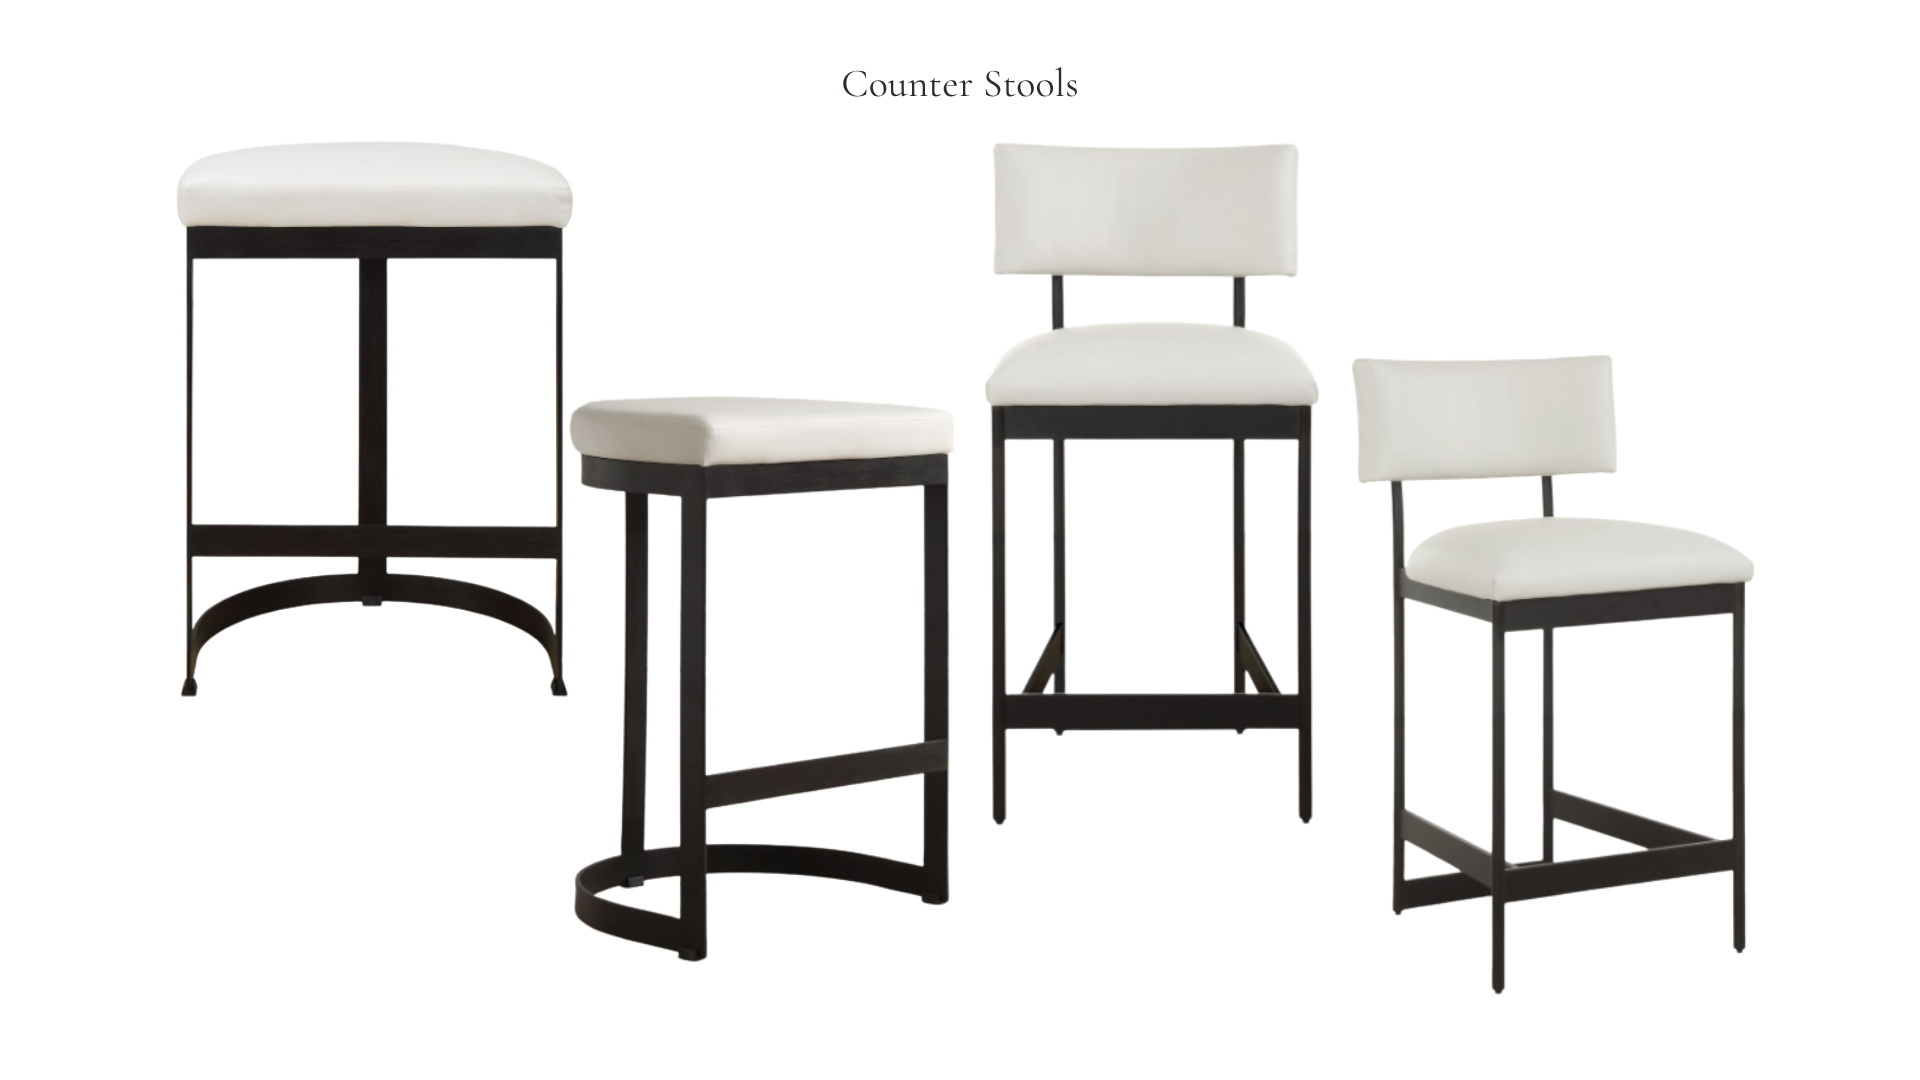
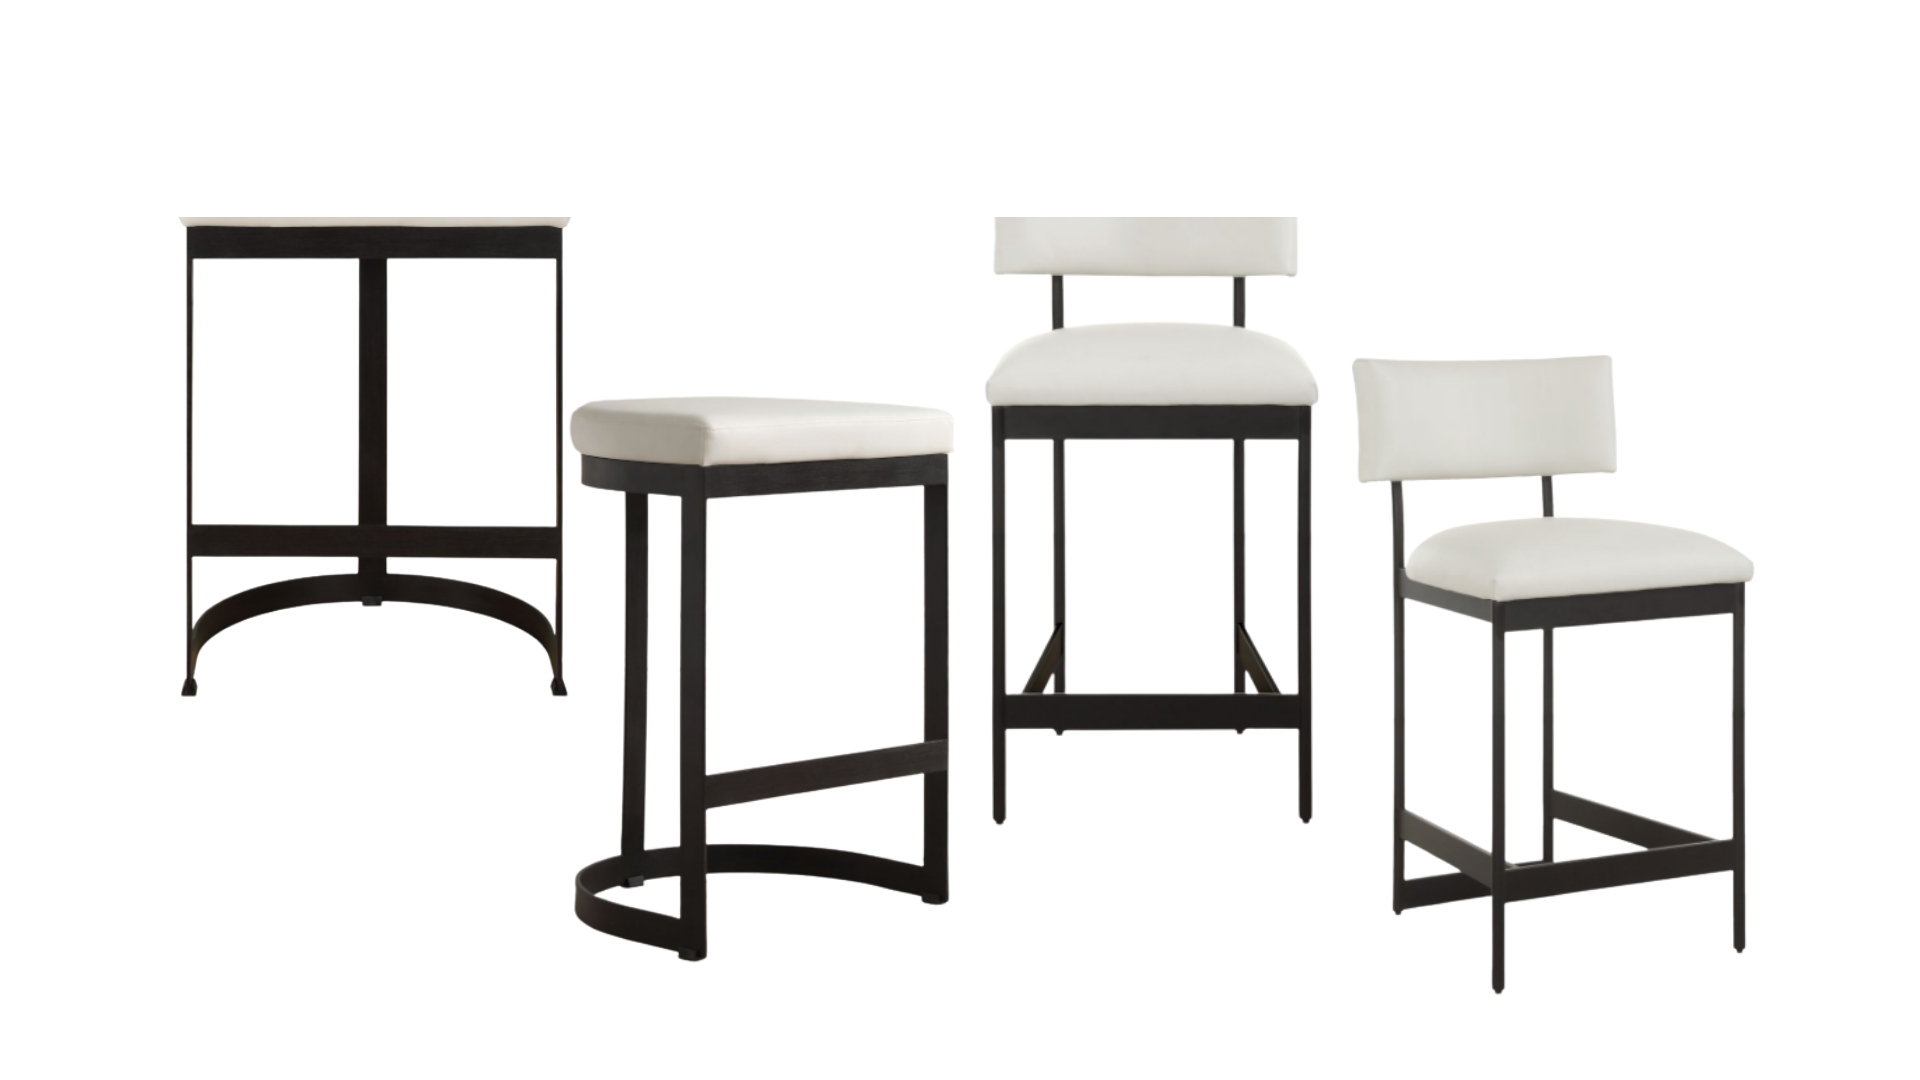
Remove text labels from Edinburgh case study images
Converted labeled webps to clean PNGs, updated HTML references

Changed region(s): [[0.0938, 0.1222, 0.3125, 0.2139], [0.5, 0.1222, 0.6875, 0.2139], [0.4375, 0.0611, 0.5625, 0.0917]]

diff --git a/portfolio/edinburgh-residence.html b/portfolio/edinburgh-residence.html
@@ -307,7 +307,7 @@
 
 <!-- ── HERO ── -->
 <section class="cs-hero">
-  <img class="cs-hero-img" src="../assets/images/cs-edinburgh/living-room-mood.webp" alt="New Jersey Estate — Living Room">
+  <img class="cs-hero-img" src="../assets/images/cs-edinburgh/living-room-mood.png" alt="New Jersey Estate — Living Room">
   <div class="cs-hero-overlay"></div>
   <div class="cs-hero-content">
     <p class="eyebrow">Case Study</p>
@@ -382,7 +382,7 @@
   <div class="cs-room">
     <span class="cs-room-label">Living Room</span>
     <div class="cs-mood-grid two">
-      <img src="../assets/images/cs-edinburgh/living-room-mood.webp" alt="Living room mood board — cream sectional and fluted coffee table">
+      <img src="../assets/images/cs-edinburgh/living-room-mood.png" alt="Living room mood board — cream sectional and fluted coffee table">
       <img src="../assets/images/cs-edinburgh/living-room-plans.png" alt="Living room floor plan and elevations">
     </div>
     <p class="cs-room-caption">A cream modular sectional anchors the space around a fluted dark-oak coffee table with marble top. A sculptural accent chair in shearling adds texture alongside a four-door media console. The fireplace wall features an arched opening — a quiet architectural anchor for the entire room.</p>
@@ -403,8 +403,8 @@
   <div class="cs-room">
     <span class="cs-room-label">Dining Room</span>
     <div class="cs-mood-grid two">
-      <img src="../assets/images/cs-edinburgh/dining-room-1.webp" alt="Dining room — walnut tulip table with crystal chandelier">
-      <img src="../assets/images/cs-edinburgh/dining-room-2.webp" alt="Dining room — travertine slab table with globe pendants">
+      <img src="../assets/images/cs-edinburgh/dining-room-1.png" alt="Dining room — walnut tulip table with crystal chandelier">
+      <img src="../assets/images/cs-edinburgh/dining-room-2.png" alt="Dining room — travertine slab table with globe pendants">
     </div>
     <p class="cs-room-caption">Two direction options for the formal dining room. Direction A centers a warm walnut table with a cast-brass tulip base beneath a linear crystal chandelier, paired with upholstered dining chairs. Direction B introduces a sculptural travertine slab dining table under a swag of opalescent globe pendants in antique brass — softer, more organic.</p>
   </div>
@@ -416,11 +416,11 @@
       <img src="../assets/images/cs-edinburgh/kitchen-materials.webp" alt="Kitchen materials — marble countertop, black and oak cabinetry, brass fixtures" style="aspect-ratio:21/9; object-fit:cover;">
     </div>
     <div class="cs-mood-grid two" style="margin-top:12px;">
-      <img src="../assets/images/cs-edinburgh/counter-stools-wood.webp" alt="Counter stool options — wood frame">
+      <img src="../assets/images/cs-edinburgh/counter-stools-wood.png" alt="Counter stool options — wood frame">
       <img src="../assets/images/cs-edinburgh/counter-stools-metal.png" alt="Counter stool options — metal frame">
     </div>
     <div class="cs-mood-grid one" style="margin-top:12px;">
-      <img src="../assets/images/cs-edinburgh/kitchen-dining.webp" alt="Kitchen dining area — round marble table with Chandigarh-style chairs">
+      <img src="../assets/images/cs-edinburgh/kitchen-dining.png" alt="Kitchen dining area — round marble table with Chandigarh-style chairs">
     </div>
     <p class="cs-room-caption">Matte black perimeter cabinetry pairs with blonde oak island panels and a Calacatta marble countertop throughout. Champagne bronze fixtures — a knurled pull-down faucet and articulating pot-filler — add warmth against the dark palette. Counter stool selections offer two directions: sculptural wood frames or refined blackened metal. The adjacent kitchen dining area features a round dark-marble pedestal table beneath a tiered dome pendant.</p>
   </div>
@@ -429,7 +429,7 @@
   <div class="cs-room">
     <span class="cs-room-label">Home Office</span>
     <div class="cs-mood-grid one">
-      <img src="../assets/images/cs-edinburgh/office-mood.webp" alt="Home office — built-ins in Benjamin Moore Silhouette, dark desk and barrel chair">
+      <img src="../assets/images/cs-edinburgh/office-mood.png" alt="Home office — built-ins in Benjamin Moore Silhouette, dark desk and barrel chair">
     </div>
     <p class="cs-room-caption">The home office is anchored by floor-to-ceiling built-in shelving painted in Benjamin Moore Silhouette AF-655 — a deep warm charcoal that recedes the walls and highlights curated objects. A blackened oak console desk pairs with a barrel-back upholstered chair beneath a sculptural plaster dome pendant in antique brass.</p>
   </div>
